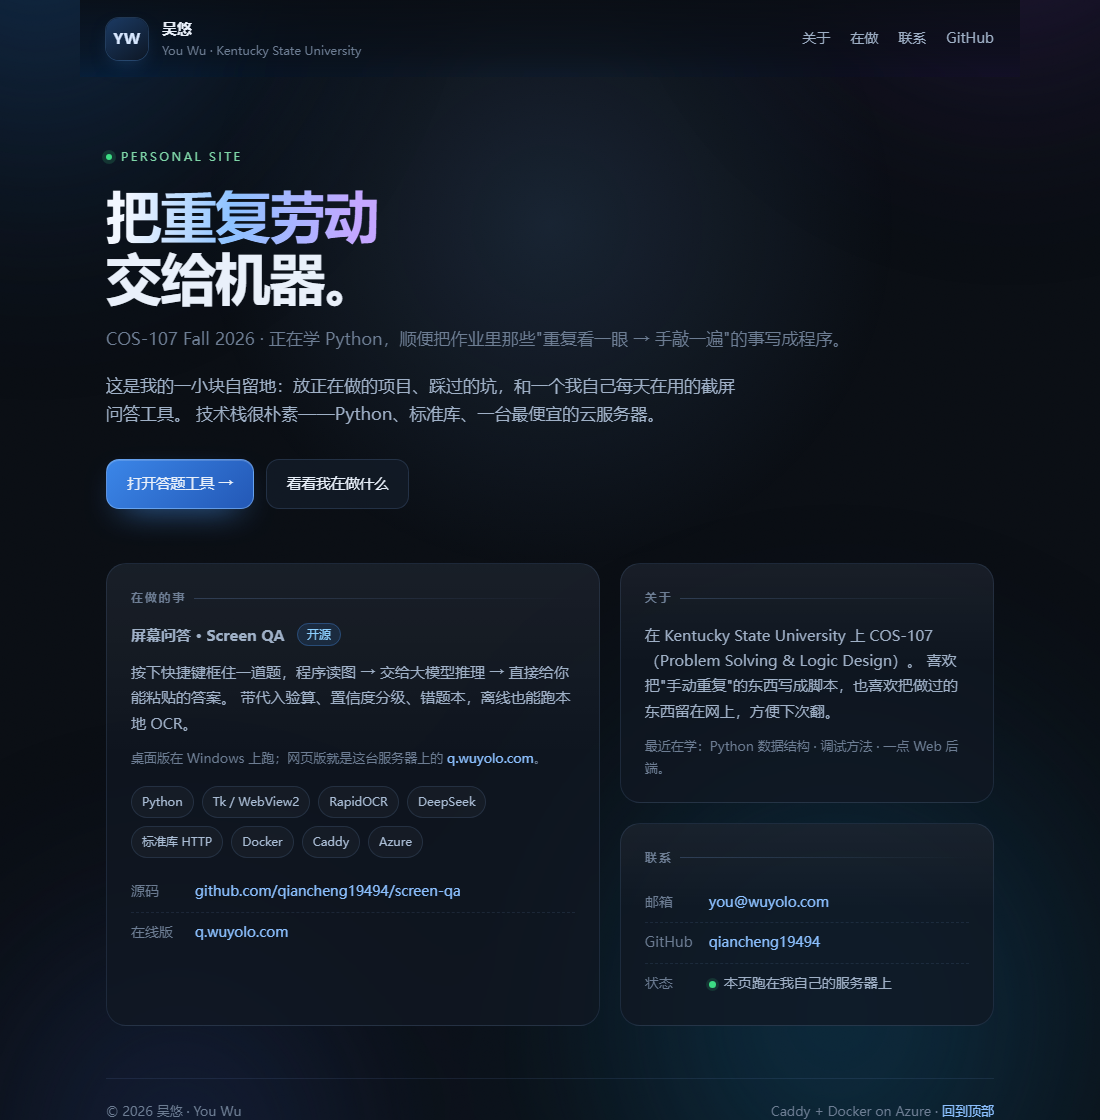
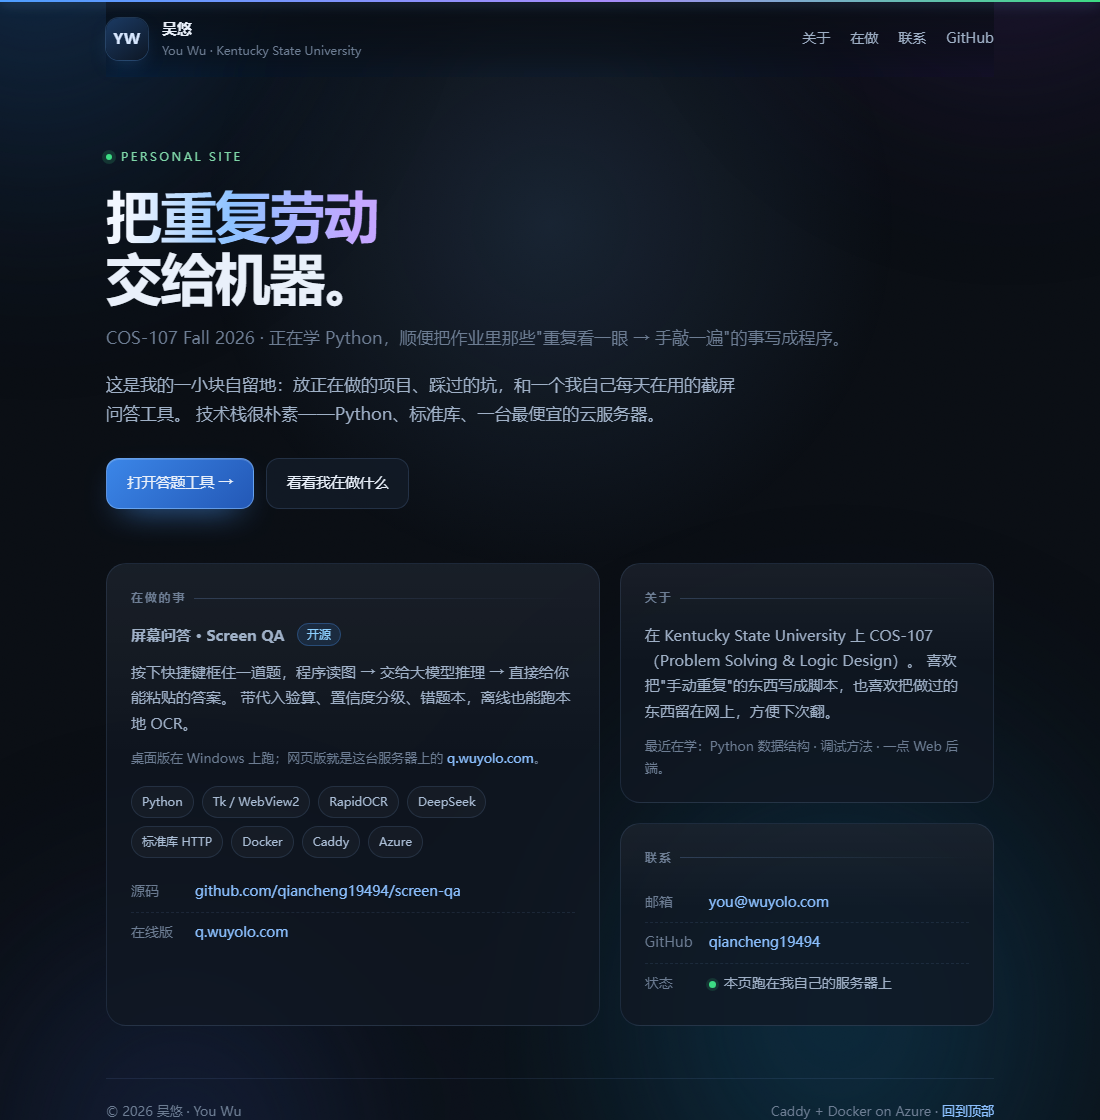
home 进度条+视差

diff --git a/server/home/index.html b/server/home/index.html
@@ -180,6 +180,21 @@
   }
   footer .right{margin-left:auto}
 
+
+  /* ---------- 顶部滚动进度条 ---------- */
+  .progress{position:fixed; top:0; left:0; right:0; height:2px; z-index:9; pointer-events:none}
+  .progress i{display:block; height:100%; width:100%; transform:scaleX(var(--p,0));
+    transform-origin:0 50%;
+    background:linear-gradient(90deg,#4d9dff,#a78bfa 55%,#3ddc84);
+    box-shadow:0 0 14px rgba(120,180,255,.75)}
+  /* 支持滚动驱动动画的浏览器：纯 CSS 跟随滚动，不依赖 JS */
+  @supports (animation-timeline: scroll()) {
+    .progress i{transform:none; animation:grow linear both; animation-timeline:scroll(root block)}
+    @keyframes grow{from{transform:scaleX(0)}to{transform:scaleX(1)}}
+  }
+  /* ---------- Hero 视差 ---------- */
+  .hero-inner{will-change:transform,opacity}
+
   /* ---------- 滚动入场 ---------- */
   .reveal{opacity:0; transform:translateY(16px);
           transition:opacity .7s cubic-bezier(.2,.7,.2,1), transform .7s cubic-bezier(.2,.7,.2,1)}
@@ -199,6 +214,7 @@
 </style>
 </head>
 <body>
+<div class="progress"><i></i></div>
 <div class="mesh"></div>
 <div class="spot"></div>
 <div class="grain"></div>
@@ -216,7 +232,7 @@
   </header>
 
   <main>
-    <section class="hero">
+    <section class="hero"><div class="hero-inner">
       <p class="eyebrow reveal"><i></i>Personal site</p>
       <h1 class="reveal"><span class="grad">把重复劳动</span><br class="br">交给机器。
         <small>COS-107 Fall 2026 · 正在学 Python，顺便把作业里那些"重复看一眼 → 手敲一遍"的事写成程序。</small>
@@ -228,6 +244,7 @@
       <div class="cta reveal">
         <a class="btn primary" href="https://q.wuyolo.com" target="_blank" rel="noopener">打开答题工具 →</a>
         <a class="btn" href="#work">看看我在做什么</a>
+      </div>
       </div>
     </section>
 
@@ -321,6 +338,34 @@
       el.style.transitionDelay = Math.min(i * 70, 320) + 'ms';
       io.observe(el);
     });
+  }
+
+  // 4) 顶部进度条 + Hero 视差
+  var bar = document.querySelector('.progress i');
+  var hero = document.querySelector('.hero-inner');
+  var ticking = false;
+  function onScroll() {
+    var h = document.documentElement;
+    var max = h.scrollHeight - h.clientHeight;
+    var pct = max > 0 ? (h.scrollTop / max) * 100 : 0;
+    if (bar) bar.style.setProperty('--p', (pct / 100).toFixed(4));
+    if (hero && !reduce) {
+      var y = Math.min(h.scrollTop, 620);
+      hero.style.transform = 'translate3d(0,' + (y * 0.16).toFixed(1) + 'px,0)';
+      hero.style.opacity = String(Math.max(0.25, 1 - y / 760));
+      hero.style.filter = y > 40 ? 'blur(' + Math.min(1.2, (y - 40) / 420).toFixed(2) + 'px)' : 'none';
+    }
+    ticking = false;
+  }
+  function ask() { if (!ticking) { ticking = true; requestAnimationFrame(onScroll); } }
+  addEventListener('scroll', ask, { passive: true });
+  addEventListener('resize', ask, { passive: true });
+  onScroll();
+
+  // 预览用：?demo=1 时把进度条与视差摆到 65%，方便截图核对
+  if (location.search.indexOf('demo=1') >= 0) {
+    if (bar) { bar.style.setProperty('--p', '0.65'); bar.style.animation = 'none'; }
+    if (hero) { hero.style.transform = 'translate3d(0,26px,0)'; hero.style.opacity = '0.92'; }
   }
 })();
 </script>
